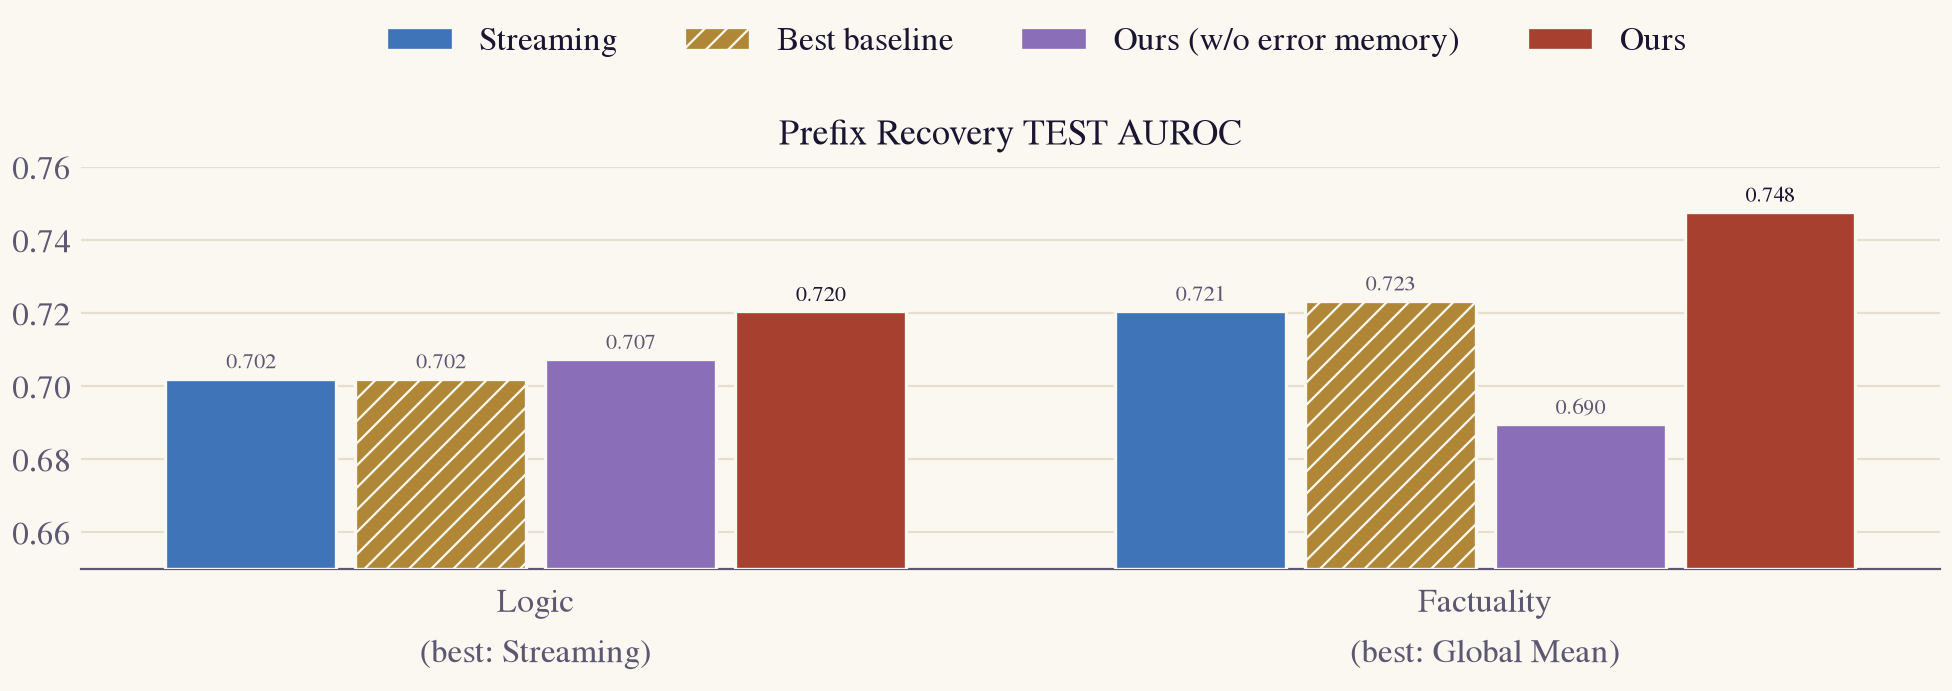
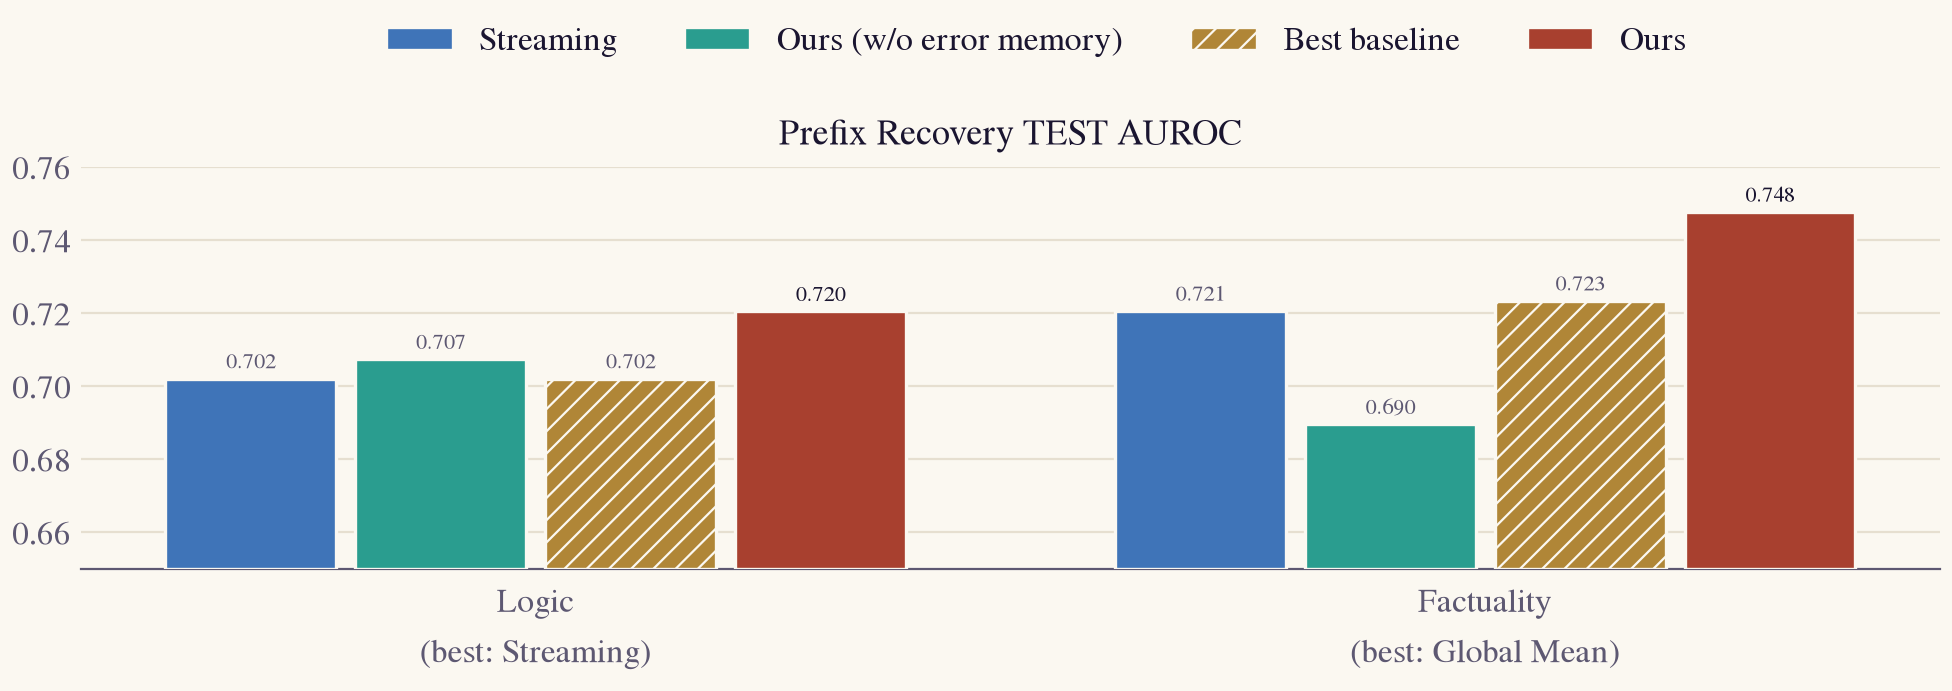
weekly: place the best baseline next to Ours in the result charts
Reorder to Streaming, Ours (w/o error memory), Best baseline, Ours and switch
the ablation colour to teal so adjacent bars stay distinguishable.

Changed region(s): [[0.6562, 0.3951, 0.875, 0.8205], [0.1562, 0.4863, 0.375, 0.8205], [0.3438, 0.0304, 0.75, 0.0912]]

diff --git a/weekly/scripts/2026-11-18_a2.py b/weekly/scripts/2026-11-18_a2.py
@@ -20,7 +20,7 @@ from matplotlib.patches import FancyArrowPatch, FancyBboxPatch
 OUT = Path("weekly/assets/2026-11-18")
 SURFACE, RAISE, INK, INK2, LINE = "#fbf8f1", "#fffdf8", "#1a1530", "#5d5872", "#d9cfbd"
 NEW, INHERITED, CLEAN_FILL = "#a8402f", "#e3b7a6", "#efe8da"
-STREAMING, BASELINE, ABLATION, OURS = "#3f74b8", "#b08637", "#8a6fb8", "#a8402f"  # validated on SURFACE
+STREAMING, BASELINE, ABLATION, OURS = "#3f74b8", "#b08637", "#2a9d8f", "#a8402f"  # validated on SURFACE in plotted order
 plt.rcParams.update({"font.family": "STIXGeneral", "font.size": 12, "mathtext.fontset": "stix", "hatch.linewidth": 0.8,
                      "hatch.color": SURFACE, "figure.facecolor": SURFACE, "axes.facecolor": SURFACE,
                      "savefig.facecolor": SURFACE})
@@ -43,8 +43,8 @@ def save(fig, name):
     print("wrote", OUT / name)
 
 
-SERIES = [("Streaming", STREAMING, ""), ("Best baseline", BASELINE, "///"),
-          ("Ours (w/o error memory)", ABLATION, ""), ("Ours", OURS, "")]
+SERIES = [("Streaming", STREAMING, ""), ("Ours (w/o error memory)", ABLATION, ""),
+          ("Best baseline", BASELINE, "///"), ("Ours", OURS, "")]
 
 
 def bars(ax, x, values, lo, hi, best_name, domains):
@@ -67,9 +67,9 @@ def bars(ax, x, values, lo, hi, best_name, domains):
 
 def results():
     domains = ["Logic", "Factuality"]; x = np.arange(2)
-    panels = [  # Streaming, best baseline, A1, A2
-        ("Step", [[0.8716, 0.8720], [0.8875, 0.8735], [0.8775, 0.8820], [0.8775, 0.8826]], ["HaMI", "HaMI"], (0.85, 0.895)),
-        ("Prefix", [[0.8256, 0.8222], [0.8256, 0.8226], [0.8341, 0.8106], [0.8377, 0.8367]], ["Streaming", "Global Mean"], (0.80, 0.845)),
+    panels = [  # Streaming, A1, best baseline, A2
+        ("Step", [[0.8716, 0.8720], [0.8775, 0.8820], [0.8875, 0.8735], [0.8775, 0.8826]], ["HaMI", "HaMI"], (0.85, 0.895)),
+        ("Prefix", [[0.8256, 0.8222], [0.8341, 0.8106], [0.8256, 0.8226], [0.8377, 0.8367]], ["Streaming", "Global Mean"], (0.80, 0.845)),
     ]
     fig, axes = plt.subplots(1, 2, figsize=(10.0, 3.8), dpi=200)
     for ax, (title, values, best_name, (lo, hi)) in zip(axes, panels):
@@ -83,7 +83,7 @@ def results():
 
 def recovery():
     domains = ["Logic", "Factuality"]; x = np.arange(2)
-    values = [[0.7020, 0.7205], [0.7020, 0.7233], [0.7073, 0.6895], [0.7204, 0.7476]]
+    values = [[0.7020, 0.7205], [0.7073, 0.6895], [0.7020, 0.7233], [0.7204, 0.7476]]
     fig, ax = plt.subplots(figsize=(10.0, 3.6), dpi=200)
     bars(ax, x, values, 0.65, 0.76, ["Streaming", "Global Mean"], domains)
     ax.set_title("Prefix Recovery TEST AUROC", fontsize=13, color=INK, pad=8)
